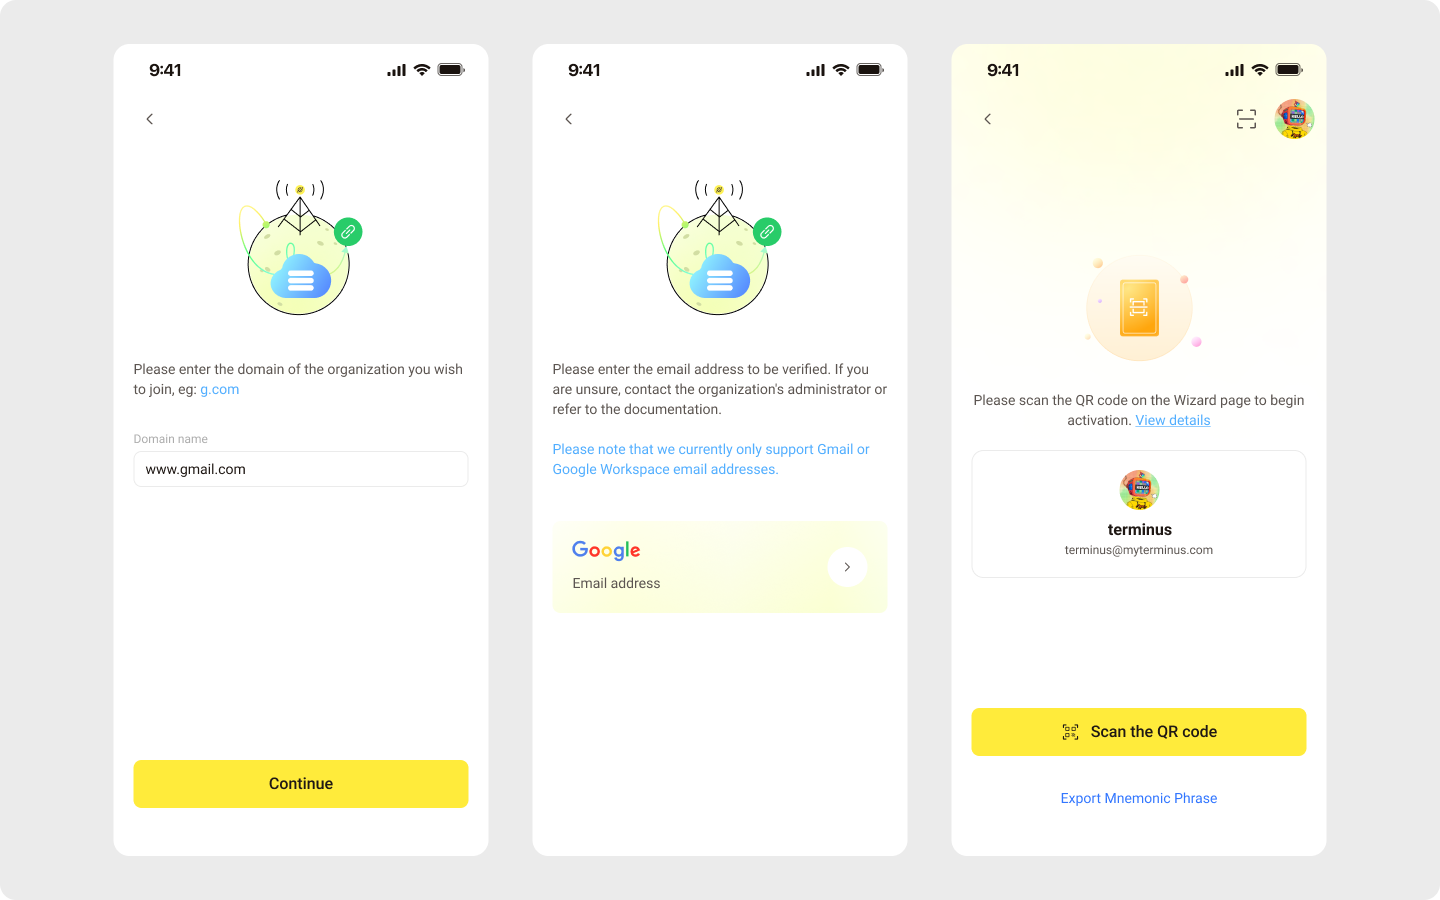
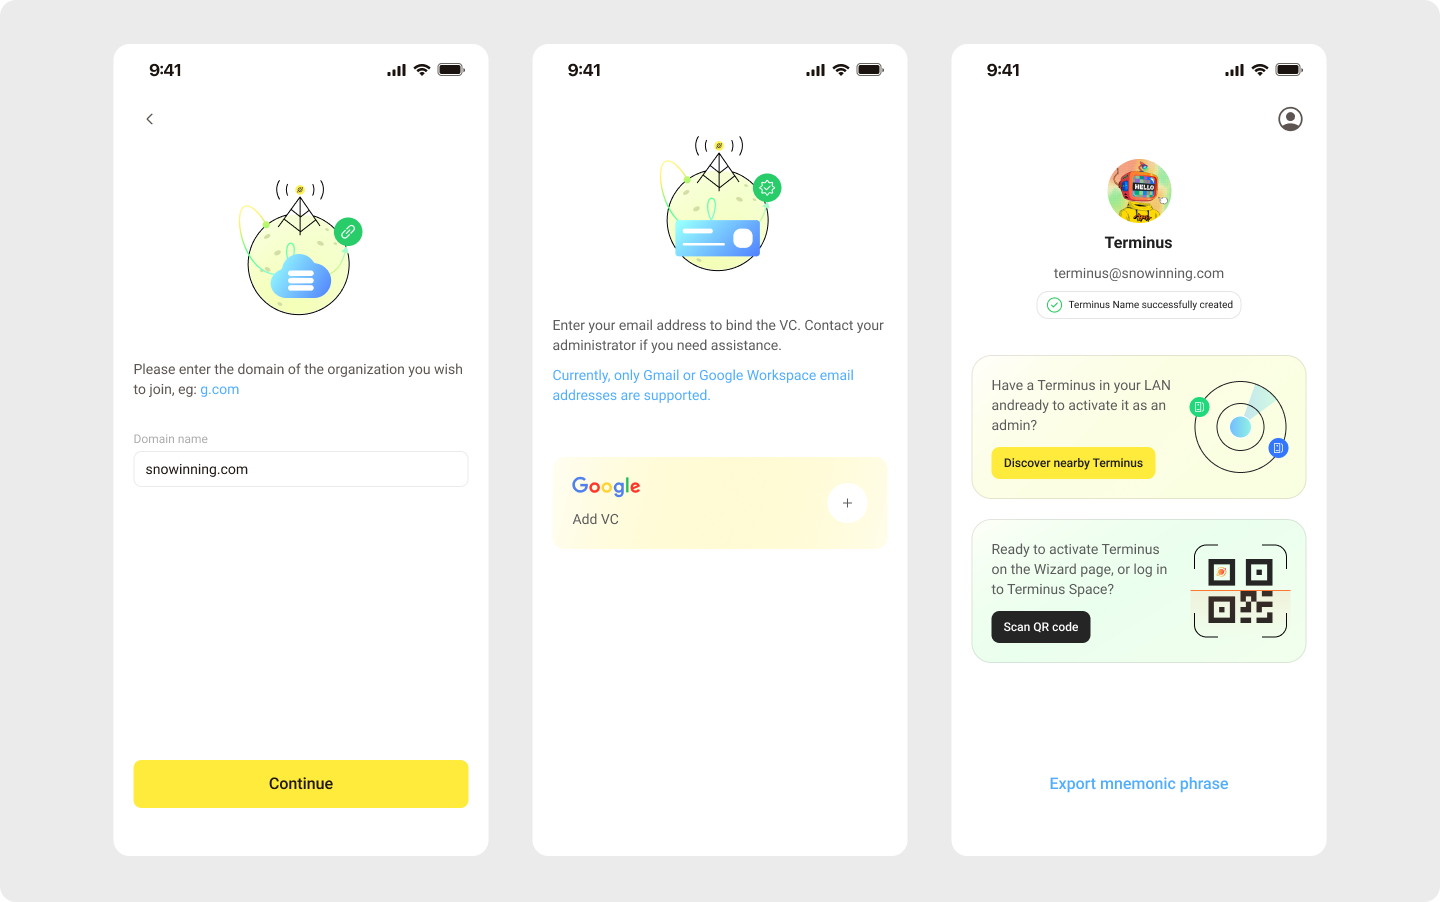
update Terminus name process

diff --git a/docs/how-to/termipass/account/index.md b/docs/how-to/termipass/account/index.md
@@ -4,106 +4,81 @@ outline: [2, 4]
 
 # Manage Accounts with TermiPass
 
-Managing Terminus Accounts is a core function of TermiPass. If you are new to TermiPass and Terminus, you can begin with [Creating a Terminus Name](#create-terminus-name). This guide will walk you through the process.
+Managing Terminus Accounts is a core function of TermiPass. If you are new to Terminus, you can start by creating a Terminus Name. This guide walks you through the process, and other commonly used account operations as well.
 
 ## Create a Terminus Name
 
-Here are the steps to apply for a Terminus Name:
+Before you start, ensure you have downloaded the [TermiPass](../overview.md#download-termipass) app on your phone. You can choose to either create a new Terminus Name or import an existing one.
 
-1. [**Download TermiPass**](../overview.md#download-termipass): Download the mobile version of TermiPass.
-2. [**Set Local Password**](#set-local-password): Follow the instructions below to set up a secure local password.
-3. [**Create an Account**](#create-an-account): Choose to either create a new account or import an existing one.
-4. [**Bind a Terminus Name**](#bind-terminus-name): Bind your new account to either an Individual or Organization Terminus Name.
+![Create terminus name](/images/how-to/termipass/create_an_account.png)
 
-### Set Local Password
+In TermiPass app, tap **Create a Terminus Name** to start creating your Terminus account. Depending on your personal preference, you can choose to create a Terminus Name with or without binding a Verifiable Credential (VC).
 
-When opening TermiPass for the first time, you need to set a local password.
+### Create without VC binding (default mode)
 
-![alt text](/images/how-to/termipass/setup_local_password.png)
+To create a Terminus Name fast without binding VC:
 
-Your password must meet the following criteria:
+1. Enter your desired Terminus Name. It must be at least 8 characters long and contain only lowercase letters and numbers.
+2. Click **Continue** to finish the creation process.
 
-- Length of 8-32 characters
-- Contains lowercase letters
-- Contains uppercase letters
-- Contains numbers
-- Contains symbols
+![Fast creation](/images/how-to/termipass/individual_terminus_name_fast.png)
 
-:::tip
-- All Terminus Names under one TermiPass share the same unlocking password.
-- Passwords for TermiPass on different devices are stored locally and independent of each other.
+After you get your Terminus Name, wait for [Terminus installation](../../terminus/setup/install/) to complete, then proceed with [activation](../../terminus/setup/wizard.md).
+
+### Create with VC (advanced mode)
+
+To create a unique, unrestricted individual Terminus Name, you need to bind a VC through your preferred social account in advanced mode. Your Terminus Name will be identical to your social account name. To enter this mode:
+
+1. In the TermiPass app, tap **Create a Terminus Name**.
+2. Tap the button in the top right corner of the Terminus Name creation page.
+
+![Advanced mode](/images/how-to/termipass/terminus_name_advanced.png)
+
+Depending on how you use Terminus, you can choose to bind an Individual Terminus Name or an Organization Terminus Name to your account.
+
+#### Bind an individual Terminus Name
+
+We currently provide VC via Google Gmail. For details, refer to the [Gmail Issuer Service](../../../developer/contribute/snowinning/terminus-name.md#gmail-issuer-service). To create your individual Terminus Name with Gmail VC:
+
+![Terminus Name VC](/images/how-to/termipass/individual_terminus_name_vc.png)
+
+1. Click the VC card to access your Google account.
+2. Log into TermiPass with your Google account and click **Continue**.
+3. Wait for the binding to complete, then click **Continue** to view your Terminus Name information.
+
+:::info
+If you encounter errors while binding, check if your account is already bound to a Terminus Name.
 :::
 
-### Create an Account
-
-![alt text](/images/how-to/termipass/new_an_account.png)
-
-Choose to either create a new Terminus Account or import an existing one.
-
-#### Create a New Account
-
-To create a new Terminus Account:
-
-1. In TermiPass, Click on **Create a Terminus Name** to start creating a new Terminus account. This creates a DID at the same time.<br>
-2. [Bind your DID to a Terminus Name](#bind-terminus-name.md).
-
-#### Import an Existing Account
-
-If you have an existing Terminus Account:
-
-1. In TermiPass, click on **Import a Terminus Name**
-2. Enter the 12 mnemonic words to import your account.
-
-:::tip
-- Incorrect mnemonic phrases will prevent importing.
-- Accounts without a bound Terminus Name cannot be imported.
-- Accounts with a bound Terminus Name can be imported to any TermiPass.
-:::
-
-### Bind Terminus Name
-
-![alt text](/images/how-to/termipass/choose_terminus_name_type.png)
-
-There are two types of Terminus Names:
-
-- For personal use, select **Individual Terminus Name** to bind a Terminus Name.
-- To use Terminus within an organization, select **Organization Terminus Name**, regardless of whether you're an administrator or a member.
-
-#### Individual Terminus Name
-
-If you're using Terminus for personal purposes, you'll need to bind a personal VC to create an individual Terminus Name.
-
-![alt text](/images/how-to/termipass/individual_terminus_name.png)
-
-
-We currently provide Verifiable Credential (VC) via Google Gmail. For details, please refer to [Gmail Issuer Service](../../../developer/contribute/snowinning/terminus-name.md#gmail-issuer-service). To create your Terminus Name with Gmail VC:
-
-1. Click the VC card to open the Google account interface.
-2. Select the Google account to bind. 
-3. Log into TermiPass with your Google account and click **Continue**.
-4. Wait for the binding to complete, then click **Continue**. 
-5. Proceed to the **Terminus Name** landing page.
-
-If you encounter errors while binding, check if your account is already bound to a **Terminus Name**. If not, please contact us.
-
-Once at the landing page, wait for [Terminus installation](../../terminus/setup/install/) to complete, then proceed with [activation](../../terminus/setup/wizard.md).
-
-
-#### Bind Organization Terminus Name
+#### Bind an Organization Terminus Name
 
 To bind an **Organization Terminus Name**:
 
-![alt text](/images/how-to/termipass/organization_terminus_name.png)
-
-1. Read the **Organization Terminus Name** explanations and click **Got it**.
-2. Join an existing organization or create a new one:
-   - If your organization doesn't exist yet, scan the QR code to log in to Terminus Space and create a domain.
+1. Choose to join an existing organization or create a new one:
+   - If your organization doesn't exist yet, scan the QR code to log in to Terminus Space and [bind a custom domain](https://docs.jointerminus.com/how-to/space/domain/#using-a-custom-domain-with-terminus).
    - If your organization already has a verified domain name, you can choose to join an existing organization.
-3. Enter your organization's domain name and click **Continue**. Recheck whether your domain name has been verified and configured if an error occurs.   
-4. Bind your organization email. Currently, only Gmail and Google Workspace email are supported. The binding process is similar with that of an [**Individual Terminus Name**](#individual-terminus-name).
-5. Upon completion, you will receive an **Organization Terminus Name**.
 
-### Backup Mnemonic Phrase
+   ![Terminus Name for Org](/images/how-to/termipass/organization_terminus_name.png)
+
+
+2. Enter your organization's domain name and click **Continue**. Recheck whether your domain name has been verified and configured if an error occurs.
+
+3. Bind your organization email. Currently, only Gmail and Google Workspace email are supported. The binding process is similar with that of [Binding an Individual Terminus Name](#bind-an-individual-terminus-name).
+
+Upon completion, you will receive an **Organization Terminus Name**.
+
+## Import an existing account
+
+You can also set up an account by importing an existing Terminus Name:
+
+1. In TermiPass app, tap **Import a Terminus Name**.
+2. Enter the 12-word mnemonic phrase to import your Terminus Name.
+
+::: tip
+If your account is bound to a Terminus Name, you can freely import it into any TermiPass device.
+:::
+
+## Backup mnemonic phrase
 
 In a decentralized account system, the mnemonic phrase is the **ONLY** way to recover your DID and Terminus Name. **Make sure you store your Terminus Name's mnemonic phrase securely!**
 
@@ -123,30 +98,28 @@ To back up your mnemonic phrase:
 Clicking the **Copy** button will save the 12 mnemonic phrase to the clipboard. However, this may pose a risk of leakage. For secure storage of the mnemonic phrase, we strongly recommend backing it up **offline**.
 :::
 
-## Stage of Account
-
-TermiPass uses [one local password](#setup-local-password.md) to allow users to manage multiple accounts independent of each other.
+## Understand the stage of account
 
 Each account has three stages:
 
 1. **Not bound to a Terminus Name**
 
-   - Account created locally with mnemonic phrase, private key, DID, but no Terminus Name 
+   - Account created locally with mnemonic phrase, private key, DID, but no Terminus Name
    - Mnemonic phrase can be exported and backed up
    - Can log into **Terminus Space** to apply for org domain name.
    - Cannot be imported to other TermiPass clients via mnemonic phrase
 
 2. **Bound to a Terminus Name**
-   
+
    - The mapping between the Terminus Name and DID is recorded on the blockchain.
    - Can apply for a Terminus on **Terminus Space** and activate the Terminus.
-   - After the mnemonic phrase is exported, it can be imported to TermiPass on other devices. 
-  
+   - After the mnemonic phrase is exported, it can be imported to TermiPass on other devices.
+
 3. **Bound to a Terminus**
 
    If your account is bound to Terminus, you'll have full access to all the features on the TermiPass.
 
-## Account Synchronization
+## Account synchronization
 
 Account in TermiPass, Terminus, and Terminus Space stay synchronized as described below:
 

diff --git a/docs/overview/terminus/terminus-name.md b/docs/overview/terminus/terminus-name.md
@@ -8,13 +8,13 @@ This document gets you familiar with Terminus Name, why do you need it, and how 
 
 ## What is a Terminus Name?
 
-A Terminus Name is a unique identifier within the Terminus ecosystem, serving as your digital identity and gateway to various services and features. Each Terminus Account corresponds to a Terminus Name, which consists of a local name and a domain name. For example, in `alice@myterminus.com`, *alice* is the Local Name, and *myterminus.com* is the domain name.
+A Terminus Name is a unique identifier within the Terminus ecosystem, serving as your digital identity and gateway to various services and features. Each Terminus Account corresponds to a Terminus Name, which consists of a local name and a domain. For example, in `alice@myterminus.com`, *alice* is the Local Name, and *myterminus.com* is the domain.
 
 ## Why do you need a Terminus Name?
 
 Your Terminus Name corresponds to a **unique domain name**, offering several key benefits:
 
-* **Ease of access**: The system automatically provisions subdomains for your applications within Terminus. Use your domain name as the personal web address to seamlessly access Terminus applications and services from anywhere. 
+* **Ease of access**: The system automatically provisions subdomains and access policies for your applications within Terminus. You can use the domain name as your personal web address to seamlessly access Terminus applications and services from anywhere.
 * **Enhanced security with free HTTPS certificate**: Terminus domain name comes with a free HTTPS certificate, ensuring secure and encrypted communication for all your digital interactions.
 * **Easy to remember and personalized**: Terminus Name and the corresponding domain name are easy to remember, share, and personalized for your distinct online identity.
 
@@ -25,27 +25,18 @@ By simply replacing the "@" in your Terminus Name with a ".", you get your corre
 
 ## How to get a Terminus Name?
 
-Creating a Terminus Name is your starting point of using Terminus. It involves creating a Terminus Account and binding it to a Terminus Name on the mobile version of TermiPass.
-
-1. Create a new Terminus account.
-    1. Launch TermiPass on your mobile. If you haven't created a local unlocking password yet, you will be required to set one.
-    2. Click **Create a Terminus Name**. You can also choose to import an existing one.
-2. Bind Terminus Name
-    - **Bind Individual Terminus Name (for personal use)**
-        * Select **Individual Terminus Name**.
-        * Bind a personal Verifiable Credential (VC) to create your Terminus Name using the authentication service by Google's Gmail. Follow the prompts to log in with your Google account and complete the binding process.
-    - **Bind Organization Terminus Name** (for organizational use)
-        * Select **Organization Terminus Name.**
-        * Join an existing organization or create a new one through Terminus Space.
-        * Enter your organization's domain name.
-        * Bind your organization email. Currently, only Gmail and Google Workspace email are supported.
-        * Upon completion, you will receive an Organization Terminus Name.
-3. Backup mnemonic phrase.
-
-    The mnemonic phrase is the ONLY way to recover your DID and Terminus Name. Make sure you [backup your Terminus Name](../../how-to/termipass/account/#backup-mnemonic-phrase)'s mnemonic phrase securely!
-
+Creating a Terminus Name is your starting point of using Terminus. This process includes setting up your Terminus account and binding it to a Terminus Name. Depending on your preference, you can choose from two creation modes:
+- [Fast creation (default mode)](../../how-to/termipass/account/index.md#create-without-vc-binding-default-mode): Recommended for individual users who prefer a quick setup without binding a verification credential (VC).
+- [Advanced creation](../../how-to/termipass/account/index.md#create-with-vc-advanced-mode): Recommended for individual and organizational users that require enhanced security and more distinctive names through VC binding.
 
 Refer to [Create a Terminus Name](../../how-to/termipass/account/#create-a-terminus-name) for detailed steps.
+
+## What's Terminus Name's relationship with DID
+
+A Decentralized Identifier (DID) is a unique, cryptographically verifiable identifier that doesn't rely on any centralized authority. While DIDs solve the issue of identity in a decentralized network, they are typically difficult for humans to remember or use in daily situations.
+
+Terminus Name acts as a human-readable layer on top of DIDs. It provides a familiar, easy-to-remember format similar to email addresses, while still leveraging the power and security of DIDs.
+Each Terminus Name is bound to a DID. When a user creates an account using Terminus, a DID is created at the same time. Learn more about their relationship in [Stage of Terminus Account](../../how-to/termipass/account/#stage-of-account).
 
 
 ## Learn more
@@ -55,4 +46,3 @@ Refer to [Create a Terminus Name](../../how-to/termipass/account/#create-a-termi
 * [Understanding Decentralized Identifier (DID)](../../developer/contribute/snowinning/concepts.md)
 * [Types of domains](../../developer/contribute/snowinning/terminus-name.md#domain)
 * [Gmail Issuer Service](../../developer/contribute/snowinning/terminus-name.md#gmail-issuer-service)
-* [Stage of Terminus Account](../../how-to/termipass/account/#stage-of-account)
